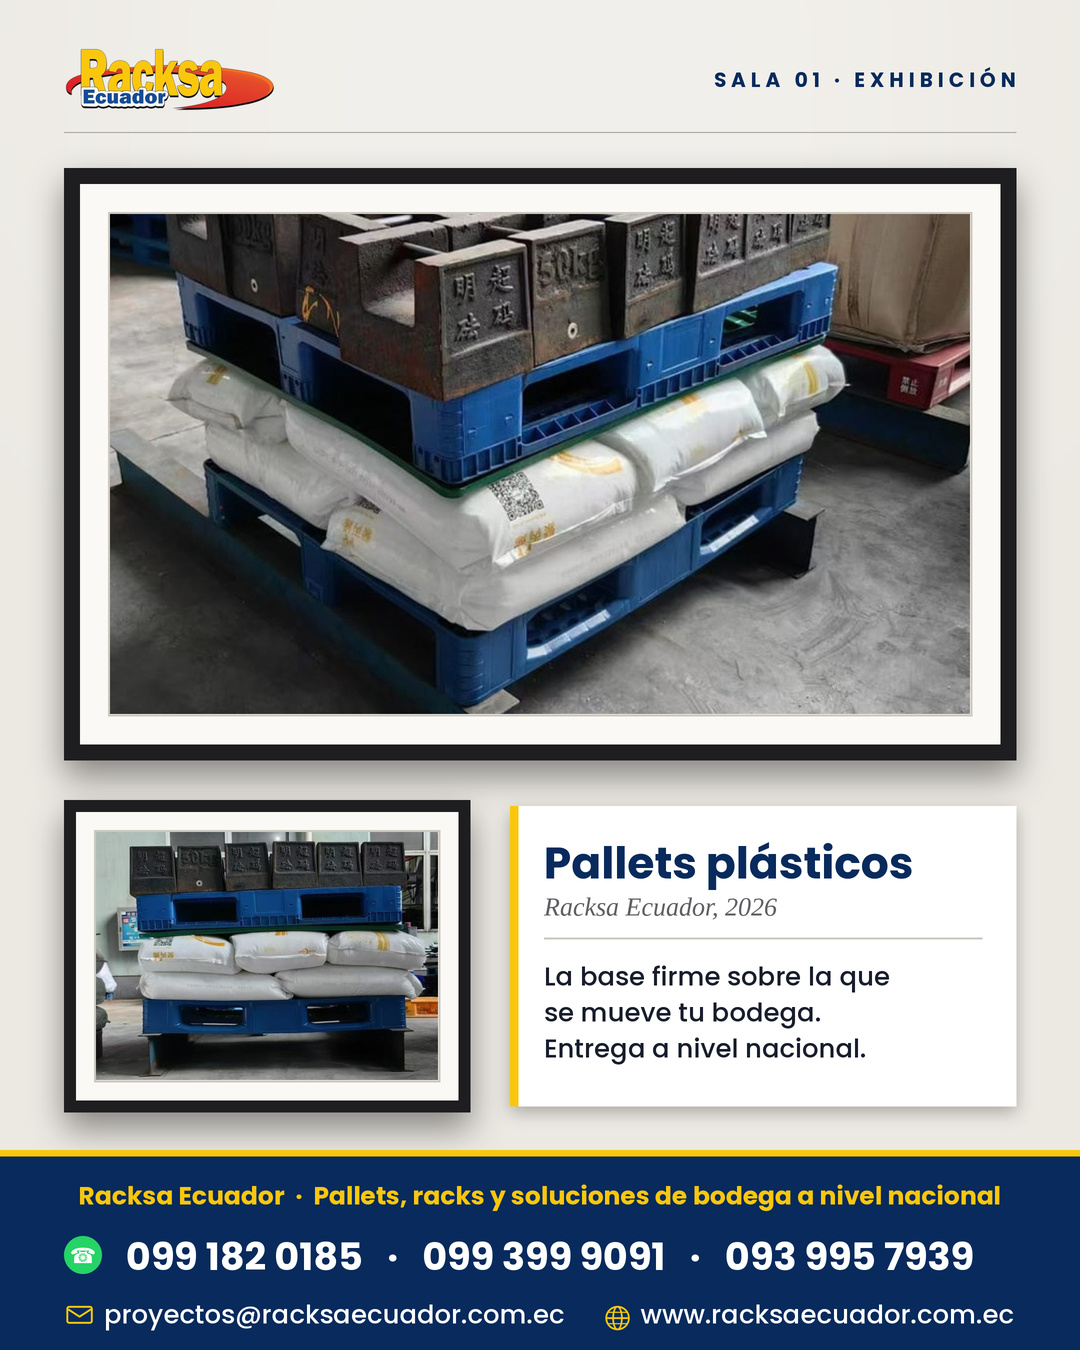
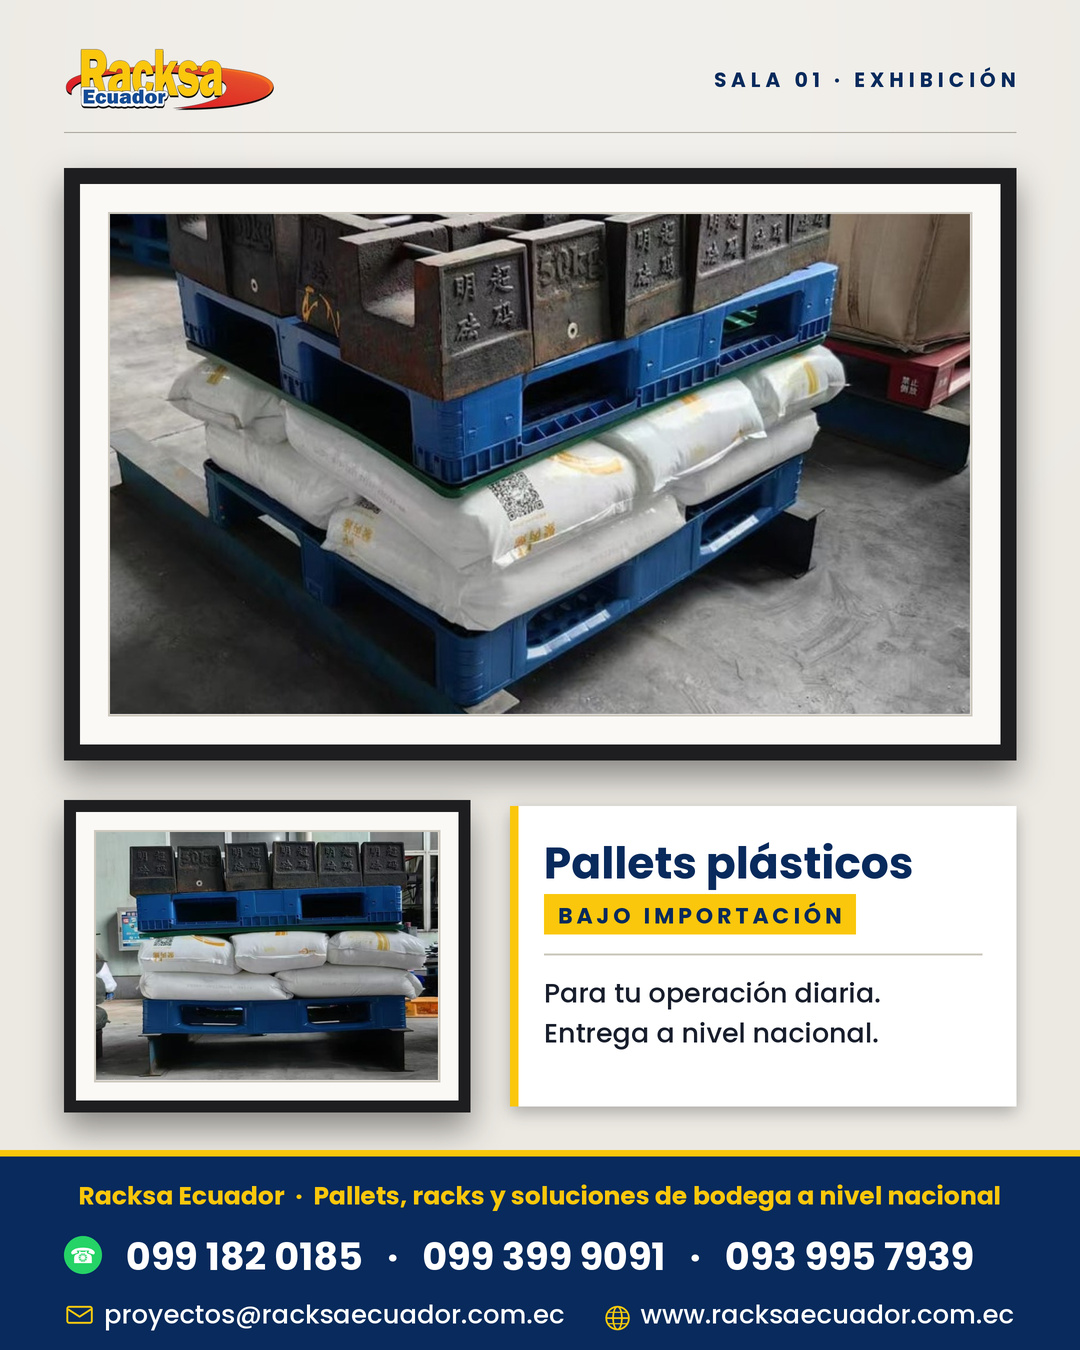
Correcciones de Anthony: pallets bajo importación, rack selectivo, montajes y desmontajes, perchas 300 kg
Claude-Session: https://claude.ai/code/session_011SdWdhYnBp2v6HyrNCJrBz

Changed region(s): [[0.4889, 0.6533, 0.9167, 0.8089]]

diff --git a/publicidad/2026-10-29_canva_nuevas/TEXTOS.md b/publicidad/2026-10-29_canva_nuevas/TEXTOS.md
@@ -18,9 +18,9 @@ Contacto común para todos los captions:
 ## A · Pallets plásticos · formato "sala de exhibición" (WA0181 grande, WA0179 pequeña)
 
 ### Instagram
-La base de tu bodega también merece estar en exhibición 🖼
+Pallets plásticos bajo importación para tu bodega 🖼
 
-✅ Pallets plásticos para tu operación diaria
+✅ Pallets plásticos bajo importación
 ✅ Combinan con tu rack selectivo
 ✅ Entrega a nivel nacional
 
@@ -39,9 +39,9 @@ CALIDAD Y CONFIANZA A TIEMPO
 ### LinkedIn
 Todo empieza por la base.
 
-Antes del rack, del montacargas o del sistema de picking, la carga se apoya en un pallet. Por eso en Racksa Ecuador también lo tenemos en cuenta cuando diseñamos tu bodega.
+Antes del rack, del montacargas o del sistema de picking, la carga se apoya en un pallet. En Racksa Ecuador traemos pallets plásticos bajo importación y los entregamos en cualquier provincia del país.
 
-✅ Pallets plásticos para tu operación diaria
+✅ Pallets plásticos bajo importación
 ✅ Combinan con tu rack selectivo
 ✅ Entrega a nivel nacional
 
@@ -64,11 +64,11 @@ CALIDAD Y CONFIANZA A TIEMPO
 ## B · Rack selectivo · formato "rótulos de pasillo colgantes" (WA0185 + WA0186)
 
 ### Instagram
-Pallets o cajas: un mismo rack lo ordena todo 📦
+Rack selectivo para tu bodega, a nivel nacional 📦
 
 ✅ Acceso directo a cada pallet
 ✅ Hasta 2.000 kg por nivel
-✅ Diseño a la medida de tu bodega
+✅ Diseño, suministro e instalación a nivel nacional
 
 💡eñamos, implementamos y mantenemos bodegas que producen más.
 
@@ -83,9 +83,9 @@ CALIDAD Y CONFIANZA A TIEMPO
 #Guayaquil #Quito #Ecuador #Bodegas #RackSelectivo
 
 ### LinkedIn
-Pasillo A: pallets. Pasillo B: cajas. El mismo sistema.
+Rack selectivo.
 
-El rack selectivo se adapta a la forma en que almacenas, con acceso directo a cada pallet y niveles definidos según tu diseño.
+El sistema más versátil para almacenar: acceso directo a cada pallet y niveles definidos según tu diseño. Lo diseñamos, suministramos e instalamos en cualquier provincia del Ecuador.
 
 ✅ Acceso directo a cada pallet
 ✅ Hasta 2.000 kg por nivel (2 pallets de 1.000 kg)
@@ -107,13 +107,13 @@ CALIDAD Y CONFIANZA A TIEMPO
 
 ---
 
-## C · Montaje de racks · formato "entrada de diccionario" (WA0086 + WA0088)
+## C · Montajes y desmontajes · formato "entrada de diccionario" (a nivel nacional, loc. adv.) (WA0086 + WA0088)
 
 ### Instagram
-mon·ta·je (s. m.): cuando tu rack llega, se arma, se ancla y queda listo para cargar 🔧
+Montajes y desmontajes de racks a nivel nacional 🔧
 
-✅ Suministro del material
-✅ Montaje por nuestro equipo
+✅ Montajes de racks y perchas
+✅ Desmontajes de racks
 ✅ En cualquier provincia del Ecuador
 
 💡eñamos, implementamos y mantenemos bodegas que producen más.
@@ -129,15 +129,15 @@ CALIDAD Y CONFIANZA A TIEMPO
 #Guayaquil #Quito #Ecuador #Bodegas #MontajeDeRacks
 
 ### LinkedIn
-Montaje: la palabra que define si tu bodega arranca a tiempo.
+A nivel nacional: así trabajamos.
 
-Entregamos el material y nuestro equipo lo arma en sitio, con placas base de anclaje y arriostramiento, para que la bodega quede lista para operar. Lo hacemos a nivel nacional.
+Montamos racks y perchas en tu bodega y también desmontamos tu rack cuando te mudas o reorganizas, sin importar en qué ciudad estés.
 
-✅ Suministro del material
-✅ Montaje e instalación por nuestro equipo
+✅ Montajes de racks y perchas
+✅ Desmontajes de racks
 ✅ Cobertura en todo Ecuador
 
-¿Tu próximo proyecto de bodega ya tiene quién lo monte?
+¿Tienes una bodega por armar o por desmontar?
 
 💡eñamos, implementamos y mantenemos bodegas que producen más.
 
@@ -149,18 +149,19 @@ CALIDAD Y CONFIANZA A TIEMPO
 📩 proyectos@racksaecuador.com.ec
 🌐 https://www.racksaecuador.com.ec
 
-#MontajeDeRacks #RackSelectivo #Almacenamiento #Bodegas #Logistica #Intralogistica #Guayaquil #Ecuador
+#MontajeDeRacks #DesmontajeDeRacks #Almacenamiento #Bodegas #Logistica #Intralogistica #Guayaquil #Ecuador
 
 ---
 
 ## D · Perchas de picking · formato "etiqueta de góndola en el riel" (WA0082)
 
 ### Instagram
-Todo a la mano, en perchas que aguantan el día a día 🗂
+Todo a la mano con perchas de picking, entrega a nivel nacional 🗂
 
-✅ 500 kg por nivel
+✅ 300 kg por nivel
 ✅ Azul + naranja, modulares
 ✅ Contamos con el stock para entrega inmediata
+✅ Entrega a nivel nacional
 
 💡eñamos, implementamos y mantenemos bodegas que producen más.
 
@@ -179,9 +180,10 @@ El picking rápido empieza por tener cada pieza a la vista.
 
 Nuestras perchas de picking ordenan repuestos, herramientas y producto suelto en bodegas, talleres y locales técnicos.
 
-✅ 500 kg por nivel
+✅ 300 kg por nivel
 ✅ Azul + naranja, modulares
 ✅ Contamos con el stock para entrega inmediata
+✅ Entrega a nivel nacional
 
 ¿Cuánto tiempo pierde tu equipo buscando una pieza?
 
